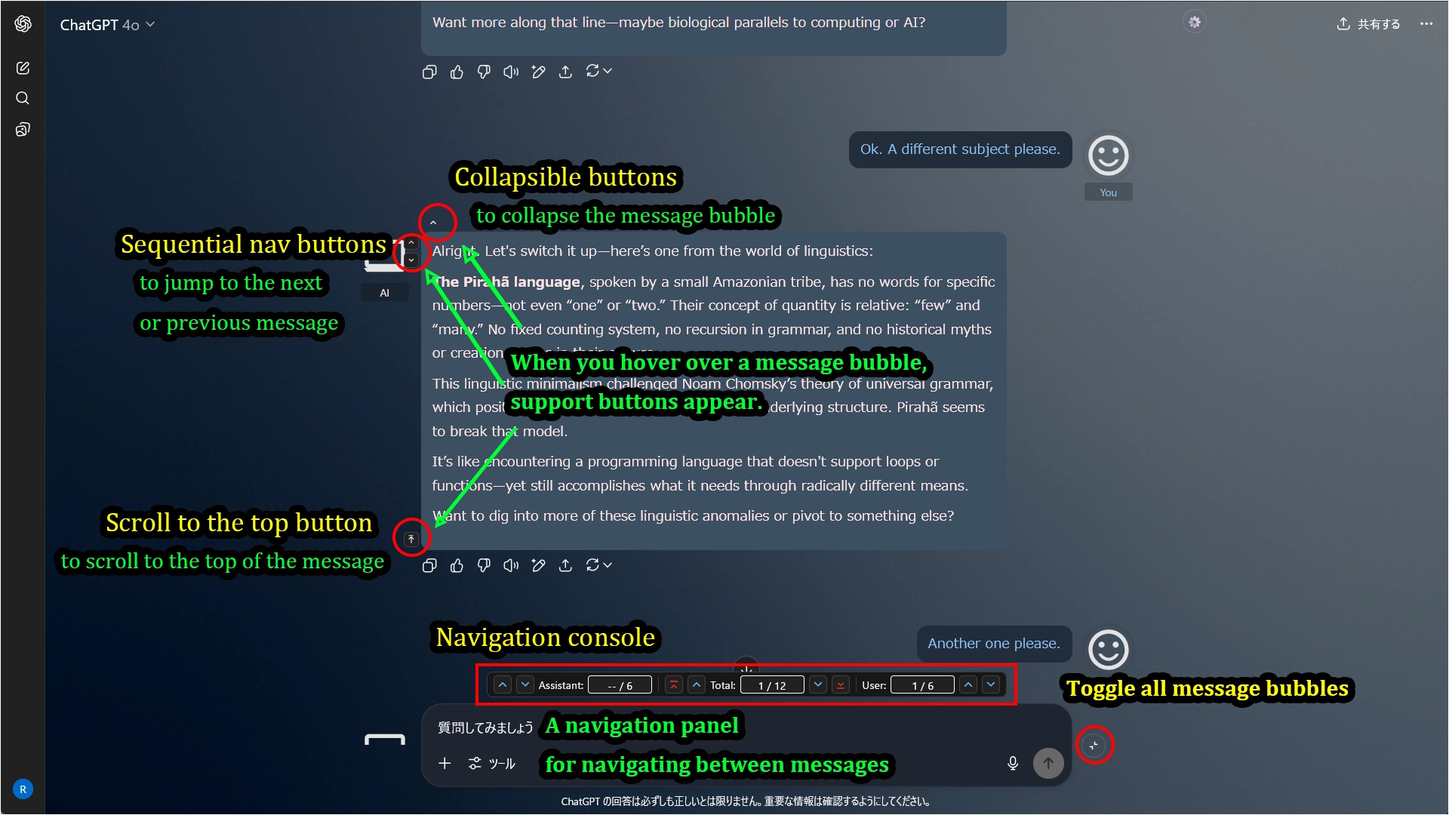
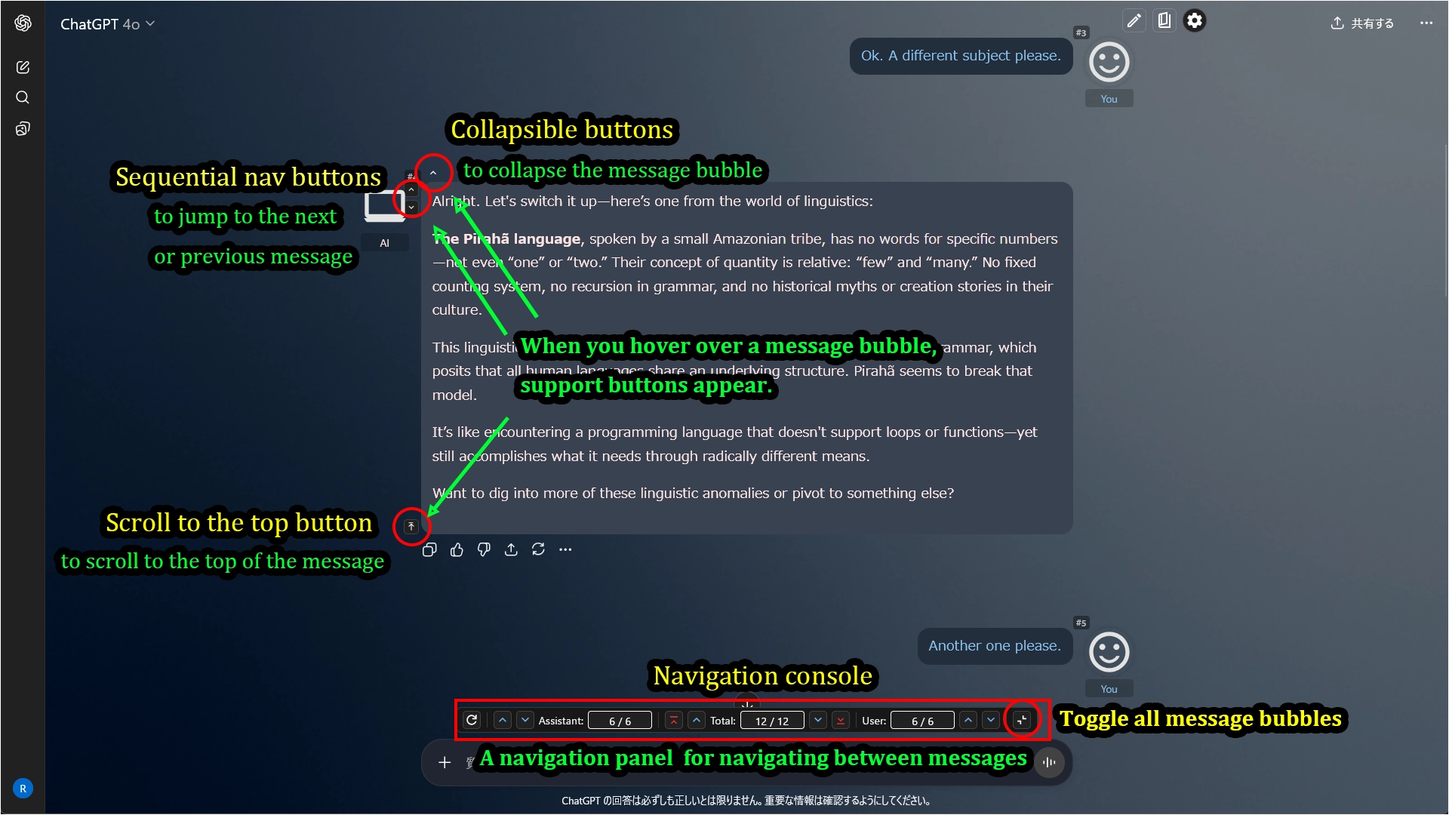
docs: update info for [GPTUX/GGGUX] v1.6.0

diff --git a/docs/UX-Customizer/CHANGELOG_AIUXC_ja.md b/docs/UX-Customizer/CHANGELOG_AIUXC_ja.md
@@ -4,6 +4,36 @@
 > この変更ログは **ChatGPT UX Customizer (GPTUX)** と **Gemini UX Customizer (GGGUX)** とで共通です。
 > ほとんどの変更は2つのスクリプト間で共通です。変更がどちらか一方にのみ適用される場合は、明示的に `[GPTUX]` または `[GGGUX]` プレフィックスで示します。
 
+## [1.6.0] - 2025-10-19
+- **機能**  
+  - **全般**: 意図しないページ（例：ChatGPTの`/gpts`や`/library`）でスクリプトを自動的に無効にして、予期せぬ問題を防止するガード機能を追加した。
+  - **ナビゲーション**: すべてのメッセージを一度に折りたたんだり展開したりするために、ナビゲーションコンソールの**右端**に「一括開閉」ボタンを追加した（入力欄右から移動）。
+  - **ナビゲーション**: [GGGUX] チャット履歴全体を読み込むために、ナビゲーションコンソールの**左端**に「自動スクロール」ボタンを追加した。普段は`Load full history on chat load`機能を無効にしておき、特定チャットで手動で自動スクロールを実行することを想定して設置した。  
+  - **UX**: [GGGUX] `ESC`キーを押すことで自動スクロール処理をキャンセルできるようにした。
+  - **ナビゲーション**: [GPTUX] 画像のみのメッセージを検出してメッセージ番号を振る機能を追加。
+  - **ナビゲーション**: [GPTUX] 上記機能のフォールバックとして、ナビゲーションコンソールの**左端**に手動の「DOMを再スキャン」ボタンを追加した。通常は使用する必要なし。
+- **改善点**
+  - **パフォーマンス**:
+    - AIが長いレスポンスを生成している間のUIの応答性を向上させるため、ストリーミング中はUI処理の大部分を一時停止するようにした。これにより、ナビゲーションコンソールのカウンターやメッセージジャンプリストなどの要素は、レスポンスが完全に完了した後にのみ更新される。この変更により、ラグやスタッタリングが大幅に軽減される。
+    - アイコン画像の画質を動的に最適化し、メッセージ数が多いチャットでの読み込みパフォーマンスを向上させた。
+    - JavaScriptベースのメッセージ高さ計算を削除し、CSSのみで処理するようにしたことで、レンダリングのオーバーヘッドを大幅に削減した。
+    - **ナビゲーション**:
+      - スクロールナビゲーションを改善し、個々のメッセージをターゲットにすることで、ターン内の画像のようなコンテンツにも正確に移動できるようにした。
+      - ジャンプリストでは画像のみのメッセージを`(Image)`と表示するようにした。
+  - **UI/UX**:
+    - 「全て開閉」ボタンのツールチップを、次のアクション（押すとどうなるか＝例：「すべて折りたたむ」）を表示するようにした。  
+    - 設定パネルのスライダーのデフォルト値の表示を「Default」から「Auto」に変更した。
+- **修正点**
+  - **UI**: [GPTUX] Chromiumベースのブラウザで「メッセージ開閉ボタン」が表示されない問題を修正した。
+  - **テーマ**: [GPTUX] 入力エリアの背景色が正しく適用されない問題を修正した。
+  - **レイアウト**: [GPTUX] チャット幅を変更すると入力エリアの幅も連動していたのを修正。  
+- **内部**
+  - **アーキテクチャ**: パフォーマンスと保守性を向上させるための大規模なリファクタリング。
+    - DOMの読み取りと書き込みを分離し（`withLayoutCycle`）、UIの更新を`requestAnimationFrame`にまとめることで、レイアウトスラッシングを防ぐ新しいレンダリングパイプラインを導入した。
+    - 効率と信頼性を向上させるため、監視ロジックを全面的に見直した。
+    - 設定画面の管理方法を、宣言的なUIスキーマに基づいたオブジェクト駆動型アーキテクチャにリファクタリングした。これにより、新しい設定項目の追加が容易になり、UIと設定データ間の同期がより堅牢になった。
+  - **設定**: レガシーな設定圧縮機能を削除し、ストレージ用に人間が読めるJSON形式に標準化した。  
+
 ## [1.5.5] - 2025-09-26
 - **修正**
   - **メッセージ移動:**  
@@ -69,7 +99,7 @@
 - **パフォーマンス強化**
   - テーマ適用を非同期化。画像以外のスタイル（色、フォント）は即座に適用し、画像はバックグラウンドでスムーズな遷移で読み込む。
   - アバターの高さ計算を最適化し、更新ごとにすべてのメッセージを再計算するのではなく、メッセージ挿入ごとに1回実行するようにした。
-  - 過剰なメモリ使用を防ぐため、LRUエビクションポリシーと10MBのサイズ制限を備えたメモリ内キャッシュを実装しました。
+  - 過剰なメモリ使用を防ぐため、LRUエビクションポリシーと10MBのサイズ制限を備えたメモリ内キャッシュを実装した。
 - **安定性とバグ修正**
   - コアイベント処理モデルを`Sentinel`を使用して完全にイベント駆動型に再構築し、SPAナビゲーション中の競合状態を解決した。
   - 古いDOMスキャンメソッド（`scanForExistingTurns`）と関連ロジックを削除し、新しいイベント駆動型アプローチを採用。
@@ -127,17 +157,17 @@
 ## [1.3.1] - 2025-08-20
 - **修正**: v1.3.0で発生した、設定パネルのトグルが即時反映されないバグを修正。根本原因はObserverManagerのパフォーマンス改善を目的としたリファクタリングにあったため、この部分のロジックをv1.2.1の実装に差し戻した。
 - **機能改善**: v1.3.0で導入した以下の改善は維持されています。
-  - **パフォーマンス**: 立ち絵(`StandingImageManager`)の描画を最適化し、負荷の高いレイアウト計算を軽微なUI更新から分離しました。レイアウト計算は、実際にレイアウトが変更されるイベント発生時のみに限定されます。
-  - **パフォーマンス**: メッセージキャッシュ(`MessageCacheManager`)から、ブラウザの強制的なリフローを引き起こす高負荷なソート処理を削除し、パフォーマンスのボトルネックを解消しました。
+  - **パフォーマンス**: 立ち絵(`StandingImageManager`)の描画を最適化し、負荷の高いレイアウト計算を軽微なUI更新から分離した。レイアウト計算は、実際にレイアウトが変更されるイベント発生時のみに限定される。
+  - **パフォーマンス**: メッセージキャッシュ(`MessageCacheManager`)から、ブラウザの強制的なリフローを引き起こす高負荷なソート処理を削除し、パフォーマンスのボトルネックを解消した。
 
 ## [1.3.0] - 2025-08-18
 - **機能改善**
-  - **パフォーマンス**: DOM監視ロジック(`ObserverManager`)を根本的にリファクタリングし、AIの応答ストリーミング中に発生していた高いCPU負荷を解消しました。新しいシステムでは、高頻度のポーリングに代わって要素ごとのオブザーバーを使用するため、アバターの表示問題もより効率的に解決されます。
-  - **パフォーマンス**: 立ち絵(`StandingImageManager`)の描画を最適化し、負荷の高いレイアウト計算を軽微なUI更新から分離しました。レイアウト計算は、実際にレイアウトが変更されるイベント発生時のみに限定されます。
-  - **パフォーマンス**: メッセージキャッシュ(`MessageCacheManager`)から、ブラウザの強制的なリフローを引き起こす高負荷なソート処理を削除し、パフォーマンスのボトルネックを解消しました。
+  - **パフォーマンス**: DOM監視ロジック(`ObserverManager`)を根本的にリファクタリングし、AIの応答ストリーミング中に発生していた高いCPU負荷を解消した。新しいシステムでは、高頻度のポーリングに代わって要素ごとのオブザーバーを使用するため、アバターの表示問題もより効率的に解決される。
+  - **パフォーマンス**: 立ち絵(`StandingImageManager`)の描画を最適化し、負荷の高いレイアウト計算を軽微なUI更新から分離した。レイアウト計算は、実際にレイアウトが変更されるイベント発生時のみに限定される。
+  - **パフォーマンス**: メッセージキャッシュ(`MessageCacheManager`)から、ブラウザの強制的なリフローを引き起こす高負荷なソート処理を削除し、パフォーマンスのボトルネックを解消した。
 - **変更**
-  - **アーキテクチャ**: 全てのメッセージバブルUI機能（折りたたみ、先頭へスクロール、次/前へ移動）の基本ロジックをリファクタリングしました。従来のターン基準(`processTurn`)の処理を廃止し、メッセージ中心(`processElement`)の処理に一貫して統一したことで、コードの明確性と保守性が向上しました。
-  - [GGGUX] **リファクタリング**: 立ち絵の表示判定ロジックをリファクタリングし、JavaScriptオブジェクトからではなくCSSプロパティから直接状態を読み取るように変更しました。これにより、ChatGPT版のより堅牢な実装と機能的に同等になりました。
+  - **アーキテクチャ**: 全てのメッセージバブルUI機能（折りたたみ、先頭へスクロール、次/前へ移動）の基本ロジックをリファクタリングした。従来のターン基準(`processTurn`)の処理を廃止し、メッセージ中心(`processElement`)の処理に一貫して統一したことで、コードの明確性と保守性が向上した。
+  - [GGGUX] **リファクタリング**: 立ち絵の表示判定ロジックをリファクタリングし、JavaScriptオブジェクトからではなくCSSプロパティから直接状態を読み取るように変更した。これにより、ChatGPT版のより堅牢な実装と機能的に同等になった。
 
 ## [1.2.1] - 2025-08-15
 - **機能追加**: 機能利用時に、追加UIが干渉しないように動的な位置調整機能を追加した。

diff --git a/docs/UX-Customizer/CHANGELOG_AIUXC.md b/docs/UX-Customizer/CHANGELOG_AIUXC.md
@@ -1,23 +1,53 @@
 # Changelog
 
-> **About this changelog**  
-> This changelog applies to both **ChatGPT UX Customizer (GPTUX)** and **Gemini UX Customizer (GGGUX)**.  
+> **About this changelog**
+> This changelog applies to both **ChatGPT UX Customizer (GPTUX)** and **Gemini UX Customizer (GGGUX)**.
 > Most changes are shared between the two scripts. If a change applies only to one, it will be explicitly marked with a `[GPTUX]` or `[GGGUX]` prefix.
+
+## [1.6.0] - 2025-10-19
+- **Features**
+  - **General**: Added a guard to automatically disable the script on unintended pages (e.g., `/gpts` or `/library` on ChatGPT) to prevent unexpected issues.
+  - **Navigation**: Added a "Bulk Collapse/Expand" button to the **right end** of the navigation console to collapse or expand all messages at once (moved from the right of the input area).
+  - **Navigation**: [GGGUX] Added an "Auto-Scroll" button to the **left end** of the navigation console to load the entire chat history. This button is designed to allow you to manually auto-scroll specific chats while normally disabling the `Load full history on chat load` function.
+  - **UX**: [GGGUX] The auto-scroll process can now be canceled by pressing the `ESC` key.
+  - **Navigation**: [GPTUX] Added a function to detect image-only messages and assign message numbers.
+  - **Navigation**: [GPTUX] As a fallback for the above feature, a manual "Rescan DOM" button has been added to the **left end** of the navigation console. Normally, there is no need to use it.
+- **Improvements**
+  - **Performance**:
+    - To enhance UI responsiveness while the AI is generating long responses, most UI processing is now paused during streaming. As a result, elements like the navigation console counters and the message jump list will update only after the response is fully complete. This change significantly reduces lag and stuttering.
+    - Dynamically optimize icon image qualities to improve loading performance in chats with a large number of messages.
+    - Removed the JavaScript-based message height calculation, now handling it with CSS only to significantly reduce rendering overhead.
+  - **Navigation**:
+    - Improved scroll navigation to target individual messages, enabling precise movement to content like images within a turn.
+    - Image-only messages are now displayed as `(Image)` in the jump list for better clarity.
+  - **UI/UX**:
+    - The tooltip for the "Bulk Collapse/Expand" button now dynamically updates to show the next action (e.g., "Collapse all").
+    - Changed the default value display for sliders in the settings panel from "Default" to "Auto".
+- **Fixes**
+  - **UI**: [GPTUX] Fixed an issue where the "message collapse/expand button" was not displayed on Chromium-based browsers.
+  - **Theming**: [GPTUX] Fixed an issue where the input area background color specified in a theme was not applied correctly.
+  - **Layout**: [GPTUX] Fixed an issue where changing the chat width would incorrectly affect the input area width.
+- **Internal**
+  - **Architecture**: Major refactoring to improve performance and maintainability.
+    - Introduced a new rendering pipeline that separates DOM reads and writes (`withLayoutCycle`) and batches UI updates into `requestAnimationFrame` to prevent layout thrashing.
+    - Overhauled the observation logic for better efficiency and reliability.
+    - Refactored the settings panel management to an object-driven architecture based on a declarative UI schema. This change simplifies the addition of new settings, improves maintainability, and ensures more robust synchronization between the UI and the configuration data.
+  - **Config**: Removed the legacy configuration compression feature, standardizing on a human-readable JSON format for storage.
 
 ## [1.5.5] - 2025-09-26
 - **Fixes**
-  - **Message Navigation:**  
-    - [GPTUX] Due to yet another page structure change in **ChatGPT** (less than a day after the previous fix), message navigation required another adjustment.  
-      - Updated the scroll container selector once more to match the latest DOM structure.  
+  - **Message Navigation:**
+    - [GPTUX] Due to yet another page structure change in **ChatGPT** (less than a day after the previous fix), message navigation required another adjustment.
+      - Updated the scroll container selector once more to match the latest DOM structure.
 - **Debugging**
   - Added debug logging to make it easier to detect early when the scroll container selector changes. 
 
 ## [1.5.4] - 2025-09-25
 - **Fixes**
-  - **Message Navigation:**  
-    - [GPTUX] Fixed broken message navigation caused by recent page structure changes in ChatGPT.  
-      - Updated the scroll container selector to the new DOM structure.  
-    - Adjusted the target element in `scrollToElement()` to ensure correct scrolling.  
+  - **Message Navigation:**
+    - [GPTUX] Fixed broken message navigation caused by recent page structure changes in ChatGPT.
+      - Updated the scroll container selector to the new DOM structure.
+    - Adjusted the target element in `scrollToElement()` to ensure correct scrolling.
 
 ## [1.5.3] - 2025-09-13 (private)
 - **Fix**
@@ -50,19 +80,19 @@
 ## [1.4.0] - 2025-09-05
 - **[GPTUX] Refactoring**
   - Minor refactoring.
-  - Version alignment with `GGGUX`.  
+  - Version alignment with `GGGUX`.
 - **[GGGUX] New feature: Auto-load full chat history**
-  - Added a new feature that automatically loads the entire chat history when opening a chat, eliminating the need to manually scroll up multiple times.  
-  - Enabled by default; can be toggled in **Settings Panel → "Load full history on chat load"**.  
-  - Provides user feedback with a toast notification (including a *Cancel* button) during loading.  
-  - Uses Gemini’s native progress bar to robustly load all messages.  
+  - Added a new feature that automatically loads the entire chat history when opening a chat, eliminating the need to manually scroll up multiple times.
+  - Enabled by default; can be toggled in **Settings Panel → "Load full history on chat load"**.
+  - Provides user feedback with a toast notification (including a *Cancel* button) during loading.
+  - Uses Gemini’s native progress bar to robustly load all messages.
   - Activates only for chats with more than 20 messages, and scrolls back to the latest message once loading is complete for a seamless experience.
   - If the auto-load chat history feature terminates too early, edit the script directly and increase the following value to `3000`: Inside `class AutoScrollManager`, change `APPEAR_TIMEOUT_MS: 2000,`
 
 ## [1.3.8] - 2025-09-03
 - **UI manager refactoring for stability & performance**
-  - Fixed an issue where the **"Toggle All"** button could incorrectly appear on empty chats after navigation. The visibility state is now managed via the message cache for consistency.  
-  - Improved performance by refactoring **AvatarManager** and **StandingImageManager** to use the centralized `MessageCacheManager` instead of redundant DOM queries.  
+  - Fixed an issue where the **"Toggle All"** button could incorrectly appear on empty chats after navigation. The visibility state is now managed via the message cache for consistency.
+  - Improved performance by refactoring **AvatarManager** and **StandingImageManager** to use the centralized `MessageCacheManager` instead of redundant DOM queries.
   - Enhanced code clarity by renaming `ObserverManager._processTurnSingle` to `observeTurnForCompletion` and updating JSDoc documentation.
 
 ## [1.3.7] - 2025-08-31

diff --git a/README.md b/README.md
@@ -19,18 +19,17 @@ Each script is developed independently and can be installed separately.
 
 ## Recent Updates
 
+### 2025/10/19
+- Updated `ChatGPT UX Customizer`/`Gemini UX Customizer` (v1.5.5 -> v1.6.0)  
+    > This release introduces a large-scale refactoring of the codebase.  
+    > All major functions have been tested, but please let me know if you encounter any issues.
+
 ### 2025/09/26
 - Updated `ChatGPT UX Customizer`/`Gemini UX Customizer` (v1.5.4 -> v1.5.5)
 
 ### 2025/09/25
 - Updated `ChatGPT UX Customizer`/`Gemini UX Customizer` (v1.5.1 -> v1.5.4)
 - Updated `Quick Text Buttons` (v1.1.1 -> v1.2.0)
-
-### 2025/09/13
-- Updated `ChatGPT UX Customizer`/`Gemini UX Customizer` (v1.5.0 -> v1.5.1)
-
-### 2025/09/08
-- Updated `ChatGPT UX Customizer`/`Gemini UX Customizer` (v1.4.0 -> v1.5.0)
 
 ---
 
@@ -42,6 +41,8 @@ Each script is developed independently and can be installed separately.
 > Since additional refactoring is also underway, the release will take a little more time.  
 > The update is expected to be published within October.  
 
+-> This issue has been fixed in v.1.6.0.
+
 ---
 
 ## Scripts in This Project
@@ -52,8 +53,8 @@ A script that adds powerful theme and navigation features. For each chat, you ca
 
 | Platform | GitHub | Greasy Fork | Version | Last Updated | Changelog |
 | :--- | :--- | :--- | :--- | :--- | :--- |
-| **ChatGPT** | [![Download](https://img.shields.io/badge/Download-blue?style=flat-square&logo=download)](https://raw.githubusercontent.com/p65536/AI-UX-Customizer/main/scripts/UX-Customizer/ChatGPT-UX-Customizer.user.js) | [![Greasy Fork](https://img.shields.io/badge/Install-green?style=flat-square&logo=greasyfork)](https://greasyfork.org/en/scripts/543703-chatgpt-ux-customizer) | 1.5.5 | 2025/09/26 | [View](./docs/UX-Customizer/CHANGELOG_AIUXC.md) |
-| **Gemini** | [![Download](https://img.shields.io/badge/Download-blue?style=flat-square&logo=download)](https://raw.githubusercontent.com/p65536/AI-UX-Customizer/main/scripts/UX-Customizer/Gemini-UX-Customizer.user.js) | [![Greasy Fork](https://img.shields.io/badge/Install-green?style=flat-square&logo=greasyfork)](https://greasyfork.org/en/scripts/543704-gemini-ux-customizer) | 1.5.5 | 2025/09/26 | [View](./docs/UX-Customizer/CHANGELOG_AIUXC.md) |
+| **ChatGPT** | [![Download](https://img.shields.io/badge/Download-blue?style=flat-square&logo=download)](https://raw.githubusercontent.com/p65536/AI-UX-Customizer/main/scripts/UX-Customizer/ChatGPT-UX-Customizer.user.js) | [![Greasy Fork](https://img.shields.io/badge/Install-green?style=flat-square&logo=greasyfork)](https://greasyfork.org/en/scripts/543703-chatgpt-ux-customizer) | 1.6.0 | 2025/10/19 | [View](./docs/UX-Customizer/CHANGELOG_AIUXC.md) |
+| **Gemini** | [![Download](https://img.shields.io/badge/Download-blue?style=flat-square&logo=download)](https://raw.githubusercontent.com/p65536/AI-UX-Customizer/main/scripts/UX-Customizer/Gemini-UX-Customizer.user.js) | [![Greasy Fork](https://img.shields.io/badge/Install-green?style=flat-square&logo=greasyfork)](https://greasyfork.org/en/scripts/543704-gemini-ux-customizer) | 1.6.0 | 2025/10/19 | [View](./docs/UX-Customizer/CHANGELOG_AIUXC.md) |
 
 **[View Detailed Features & Manual for UX Customizer](./docs/UX-Customizer/README.md)**
 

diff --git a/README_ja.md b/README_ja.md
@@ -19,18 +19,17 @@
 
 ## 最近の更新
 
+### 2025/10/19
+- `ChatGPT UX Customizer`/`Gemini UX Customizer`を更新（v1.5.5 -> v1.6.0）  
+    > このリリースでは、コードベースの大規模なリファクタリングを行っています。  
+    > 主要な機能はテスト済みですが、問題が発生した場合はお知らせください。
+
 ### 2025/09/26
 - `ChatGPT UX Customizer`/`Gemini UX Customizer`を更新（v1.5.4 -> v1.5.5）
 
 ### 2025/09/25
 - `ChatGPT UX Customizer`/`Gemini UX Customizer`を更新（v1.5.1 -> v1.5.4）
 - `Quick Text Buttons`を更新 (v1.1.1 -> v1.2.0)
-
-### 2025/09/13
-- `ChatGPT UX Customizer`/`Gemini UX Customizer`を更新（v1.5.0 -> v1.5.1）
-
-### 2025/09/08
-- `ChatGPT UX Customizer`/`Gemini UX Customizer`を更新（v1.4.0 -> v1.5.0）
 
 ---
 
@@ -42,6 +41,8 @@
 > 追加のリファクタリングも作業中のため、リリースにはもう少し時間が掛かります。  
 > 10月中には公開する予定です。
 
+-> この問題はv.1.6.0で修正されました。
+
 ---
 
 ## スクリプト一覧
@@ -52,8 +53,8 @@
 
 | 対象 | GitHub | Greasy Fork | バージョン | 最終更新日 | 変更履歴 |
 | :--- | :--- | :--- | :--- | :--- | :--- |
-| **ChatGPT** | [![Download](https://img.shields.io/badge/Download-blue?style=flat-square&logo=download)](https://raw.githubusercontent.com/p65536/AI-UX-Customizer/main/scripts/UX-Customizer/ChatGPT-UX-Customizer.user.js) | [![Greasy Fork](https://img.shields.io/badge/Install-green?style=flat-square&logo=greasyfork)](https://greasyfork.org/en/scripts/543703-chatgpt-ux-customizer) | 1.5.5 | 2025/09/26 | [参照](./docs/UX-Customizer/CHANGELOG_AIUXC_ja.md) |
-| **Gemini** | [![Download](https://img.shields.io/badge/Download-blue?style=flat-square&logo=download)](https://raw.githubusercontent.com/p65536/AI-UX-Customizer/main/scripts/UX-Customizer/Gemini-UX-Customizer.user.js) | [![Greasy Fork](https://img.shields.io/badge/Install-green?style=flat-square&logo=greasyfork)](https://greasyfork.org/en/scripts/543704-gemini-ux-customizer) | 1.5.5 | 2025/09/26 | [参照](./docs/UX-Customizer/CHANGELOG_AIUXC_ja.md) |
+| **ChatGPT** | [![Download](https://img.shields.io/badge/Download-blue?style=flat-square&logo=download)](https://raw.githubusercontent.com/p65536/AI-UX-Customizer/main/scripts/UX-Customizer/ChatGPT-UX-Customizer.user.js) | [![Greasy Fork](https://img.shields.io/badge/Install-green?style=flat-square&logo=greasyfork)](https://greasyfork.org/en/scripts/543703-chatgpt-ux-customizer) | 1.6.0 | 2025/10/19 | [参照](./docs/UX-Customizer/CHANGELOG_AIUXC_ja.md) |
+| **Gemini** | [![Download](https://img.shields.io/badge/Download-blue?style=flat-square&logo=download)](https://raw.githubusercontent.com/p65536/AI-UX-Customizer/main/scripts/UX-Customizer/Gemini-UX-Customizer.user.js) | [![Greasy Fork](https://img.shields.io/badge/Install-green?style=flat-square&logo=greasyfork)](https://greasyfork.org/en/scripts/543704-gemini-ux-customizer) | 1.6.0 | 2025/10/19 | [参照](./docs/UX-Customizer/CHANGELOG_AIUXC_ja.md) |
 
 **[UX Customizer の詳細はこちら](./docs/UX-Customizer/README_ja.md)**
 

diff --git a/docs/UX-Customizer/README_ja.md b/docs/UX-Customizer/README_ja.md
@@ -76,6 +76,18 @@
 
 ![高度なナビゲーション機能](./images/navigation.webp)
 
+### 9. ナビゲーションコンソールの差異
+
+##### GPTUX (for ChatGPT)
+  - 左端のボタンは「メッセージのDOMを再読み込み」機能  
+  通常、チャットを読み込む際に DOM スキャンが自動的に実行されるため、これを使用する必要はありません。画像を含むメッセージで、メッセージ数の取得が正しくないことがあったら使用してください。  
+![Navigation Console of GPTUX](./images/navi_console_chatgpt.webp)
+
+##### GGGUX (for Gemini)
+  - 左端のボタンは「チャット履歴を全て読み込み」機能  
+  普段は`Load full history on chat load`機能を無効にしておき、特定チャットで手動で自動スクロールを実行することを想定して設置したボタンです。  
+![Navigation Console of GGGUX](./images/navi_console_gemini.webp)
+
 ---
 
 ## 使い方
@@ -144,7 +156,6 @@ MIT License
 
 ## 既知の問題
 
-  * [ChatGPT] チャット幅設定を変更すると、メッセージ入力欄の幅も連動して変更される（ページ構造上、うまく調整できずに苦戦中）
   * Canvas機能利用時のUIを何も考慮していない。
 
 ## 今後の予定

diff --git a/docs/UX-Customizer/README.md b/docs/UX-Customizer/README.md
@@ -75,6 +75,18 @@ The scripts have been created for each site. Please install the required script.
 
 ![Advanced Navigation](./images/navigation.webp)
 
+### 9. Differences between the navigation consoles of GPTUX and GGGUX
+
+##### GPTUX (for ChatGPT)
+  - The left end button is the "Rescan DOM for messages" function  
+  Normally, there is no need to use this because DOM scanning is performed automatically when loading chat. Use this if the message count is not being obtained correctly for messages that contain images.
+![Navigation Console of GPTUX](./images/navi_console_chatgpt.webp)
+
+##### GGGUX (for Gemini)
+  - The left end button is the "Load full chat history (Auto scroll)" function  
+  This button is designed to allow you to manually auto-scroll specific chats while normally disabling the `Load full history on chat load` function.
+![Navigation Console of GGGUX](./images/navi_console_gemini.webp)
+
 ---
 
 ## How to Use
@@ -143,7 +155,6 @@ MIT License
 
 ## Known Issues
 
-  * [ChatGPT] Changing the chat width setting also changes the message input field's width (struggling to adjust this due to page structure).
   * No consideration for UI when using Canvas features.
 
 ## Future Plans
